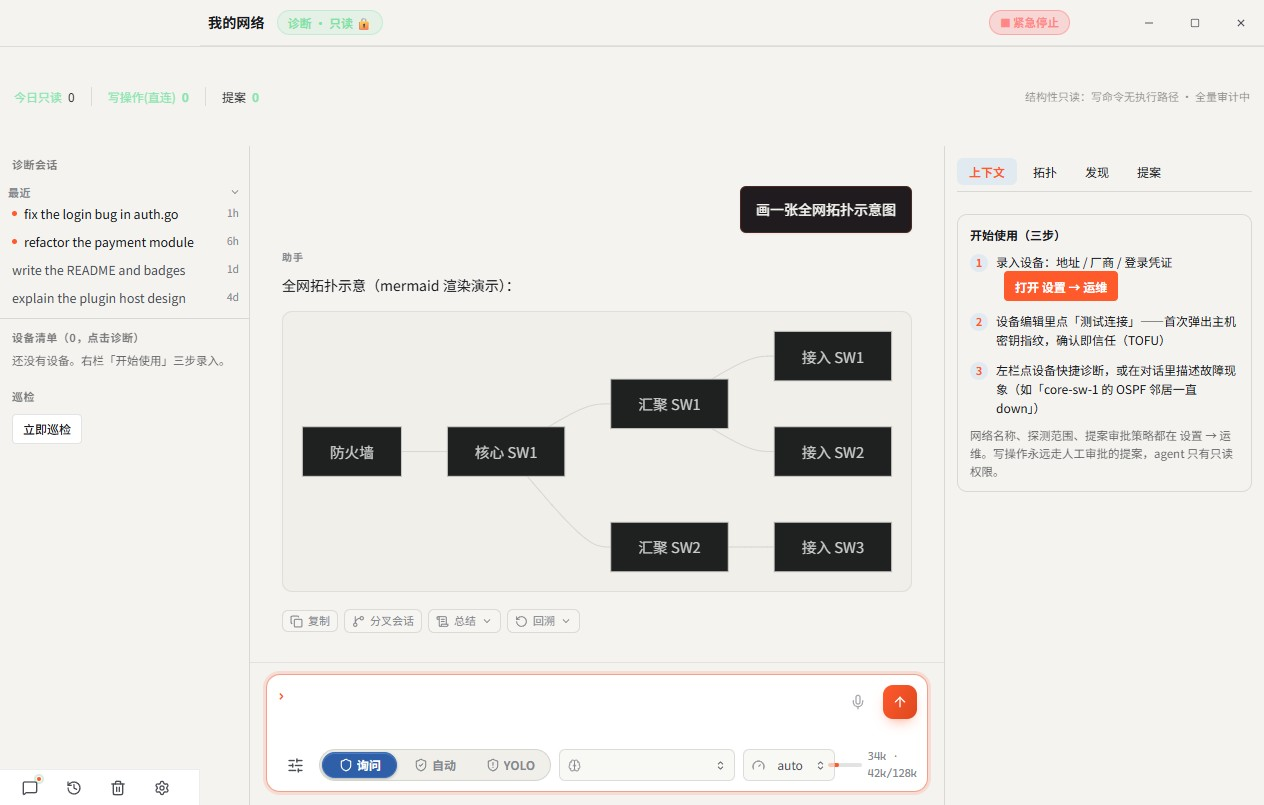
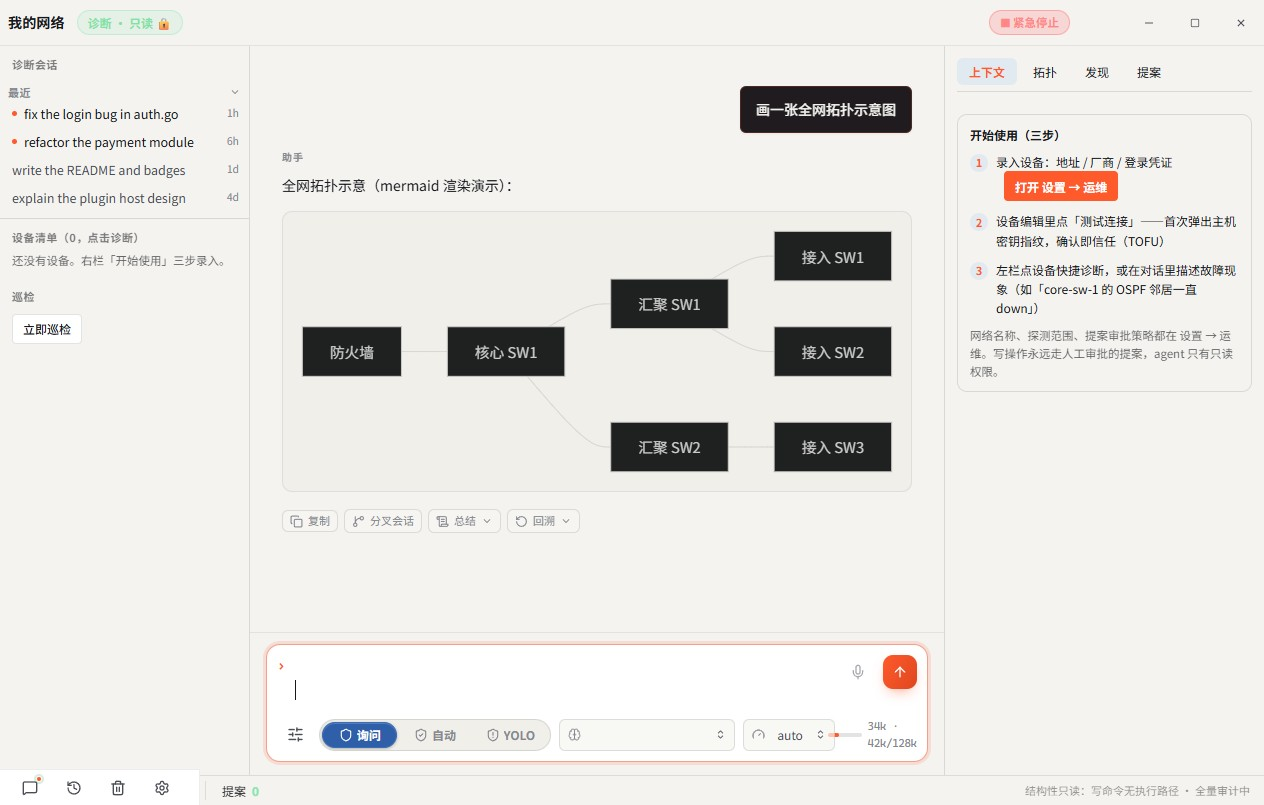
fix(netdev-ui): 布局压在窗口下半截的根因——grid-row 钉死在已删头部的行 + chrome 左侧空槽
- 根因1：替换式重构删掉了 .ndv__top（第1行 1fr），但 rail/main/dock 仍
  grid-row:2（auto），第1行变成 ~500px 空行，运维内容被挤到窗口底部
  （用户 dev shell 所见「全乱」；ndvcheck 几何探针证实 rail y=542/h=358）
- 根因2：.app-chrome 固定 grid-column:2/-1，隐藏的侧栏轨道仍在，
  顶部左侧空出 ~202px
- 修复：rail/main/dock → row 1，bottom 显式 row 2，删除死规则 .ndv__top；
  .app--netdev .app-chrome 占满 1/-1
- 验证改为几何断言（y/x/w/h）而非纯视觉：chrome 0,0 1440x46，
  rail 0,46 250x824，main/dock 同行铺满；1440 与 1024 两档视口均过

diff --git a/desktop/frontend/src/styles/netdev.css b/desktop/frontend/src/styles/netdev.css
@@ -12,6 +12,12 @@
   display: none;
 }
 
+/* The chrome normally starts right of the sidebar column (grid-column: 2/-1).
+   The sidebar is hidden in netdev but its track still reserves ~200px, leaving
+   a blank notch at the top-left; the netdev title bar IS the header, so span
+   the full width. */
+.app--netdev .app-chrome { grid-column: 1 / -1; }
+
 /* The layout is a grid ITEM inside the app's outer grid, exactly like
    .cowork-layout: pin to row 2..end spanning all columns, or the auto row
    collapses to content height and everything crams into the top-left. */
@@ -25,16 +31,6 @@
   min-width: 0;
   overflow: hidden;
   background: var(--bg);
-}
-
-.ndv__top {
-  grid-column: 1 / -1;
-  display: flex;
-  align-items: center;
-  gap: 12px;
-  padding: 6px 12px;
-  border-bottom: 1px solid var(--border);
-  background: var(--bg-raised, var(--bg));
 }
 
 .ndv__badge {
@@ -72,7 +68,7 @@
 .ndv__stop:hover { background: rgba(255, 87, 87, 0.18); border-color: rgba(255, 135, 135, 0.6); }
 
 .ndv__rail {
-  grid-row: 2;
+  grid-row: 1;
   display: flex;
   flex-direction: column;
   border-right: 1px solid var(--border);
@@ -117,7 +113,7 @@
 .ndv__device-addr { opacity: 0.55; white-space: nowrap; }
 
 .ndv__main {
-  grid-row: 2;
+  grid-row: 1;
   grid-column: 2;
   display: flex;
   flex-direction: column;
@@ -129,7 +125,7 @@
 .ndv__chat { flex: 1; min-height: 0; overflow: auto; }
 
 .ndv__dock {
-  grid-row: 2;
+  grid-row: 1;
   grid-column: 3;
   border-left: 1px solid var(--border);
   background: var(--bg-raised, var(--bg));
@@ -183,6 +179,7 @@
 .ndv__step-detail { margin-left: 8px; margin-bottom: 6px; }
 
 .ndv__bottom {
+  grid-row: 2;
   grid-column: 1 / -1;
   display: flex;
   align-items: center;
